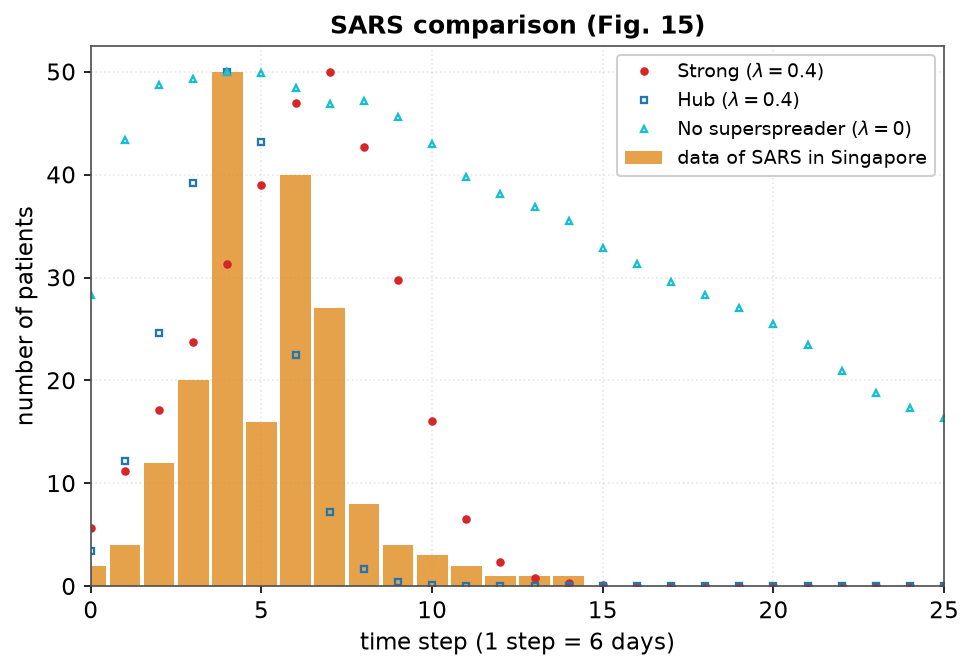
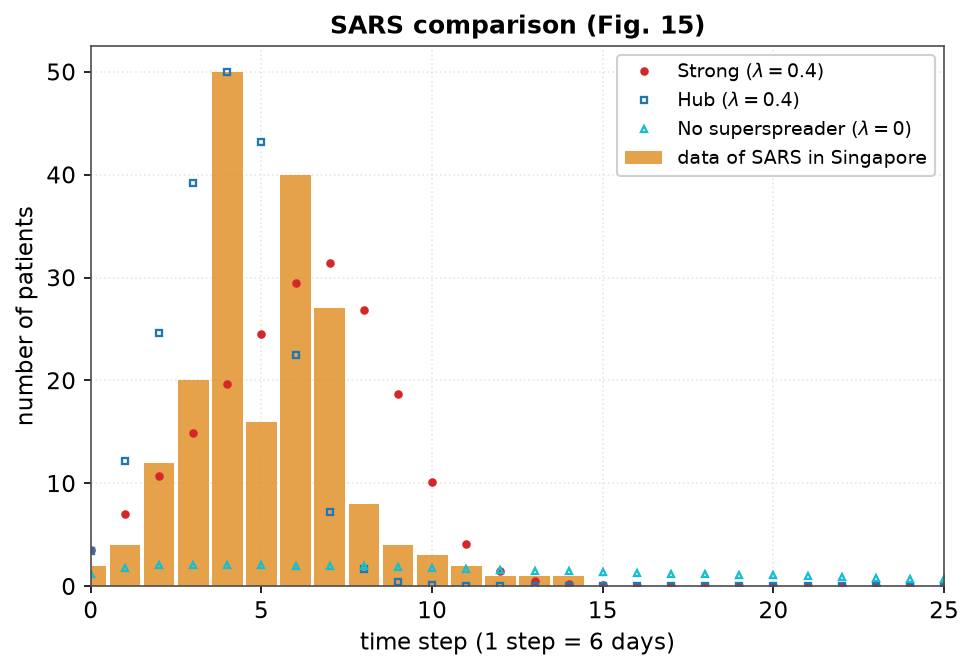
Fix Fig.15 SARS scaling: use one common factor, not per-curve peak norm
Each model curve was rescaled to its own peak, which inflated the broad,
low lambda=0 epidemic up to the SARS peak. The paper scales all curves by a
single factor (hub fitted to the data), so the no-superspreader curve stays
proportionally low and flat near zero -- at rho*pi*r0^2=15 lambda=0 is below
its percolation threshold and most runs fizzle. Now matches the paper's Fig.15.

diff --git a/scripts/05_sars_comparison.py b/scripts/05_sars_comparison.py
@@ -46,10 +46,17 @@ def main():
     c_none = mean_epidemic_curve(res_none, condition="all")
 
     sars = sars_data.SARS_EPIDEMIC_CURVE
-    # scale model curves so their peak matches the SARS peak (shape comparison)
+    # Scale every model curve by ONE common factor (fit the hub-model peak --
+    # the paper's best fit -- to the SARS peak). A single factor preserves the
+    # relative magnitudes between models, so the no-superspreader (lambda=0)
+    # curve stays proportionally low and flat, as in the paper's Fig. 15. (Note:
+    # at rho*pi*r0^2=15 the lambda=0 case is below its percolation threshold, so
+    # most runs fizzle and its all-runs average is small.) Per-curve peak
+    # normalisation would wrongly inflate that broad lambda=0 epidemic to the
+    # data peak.
+    factor = (sars.max() / c_hub.max()) if c_hub.max() > 0 else 1.0
     def rescale(c):
-        m = c.max()
-        return c * (sars.max() / m) if m > 0 else c
+        return c * factor
 
     model_curves = {
         fr"Strong ($\lambda={args.lam}$)":
